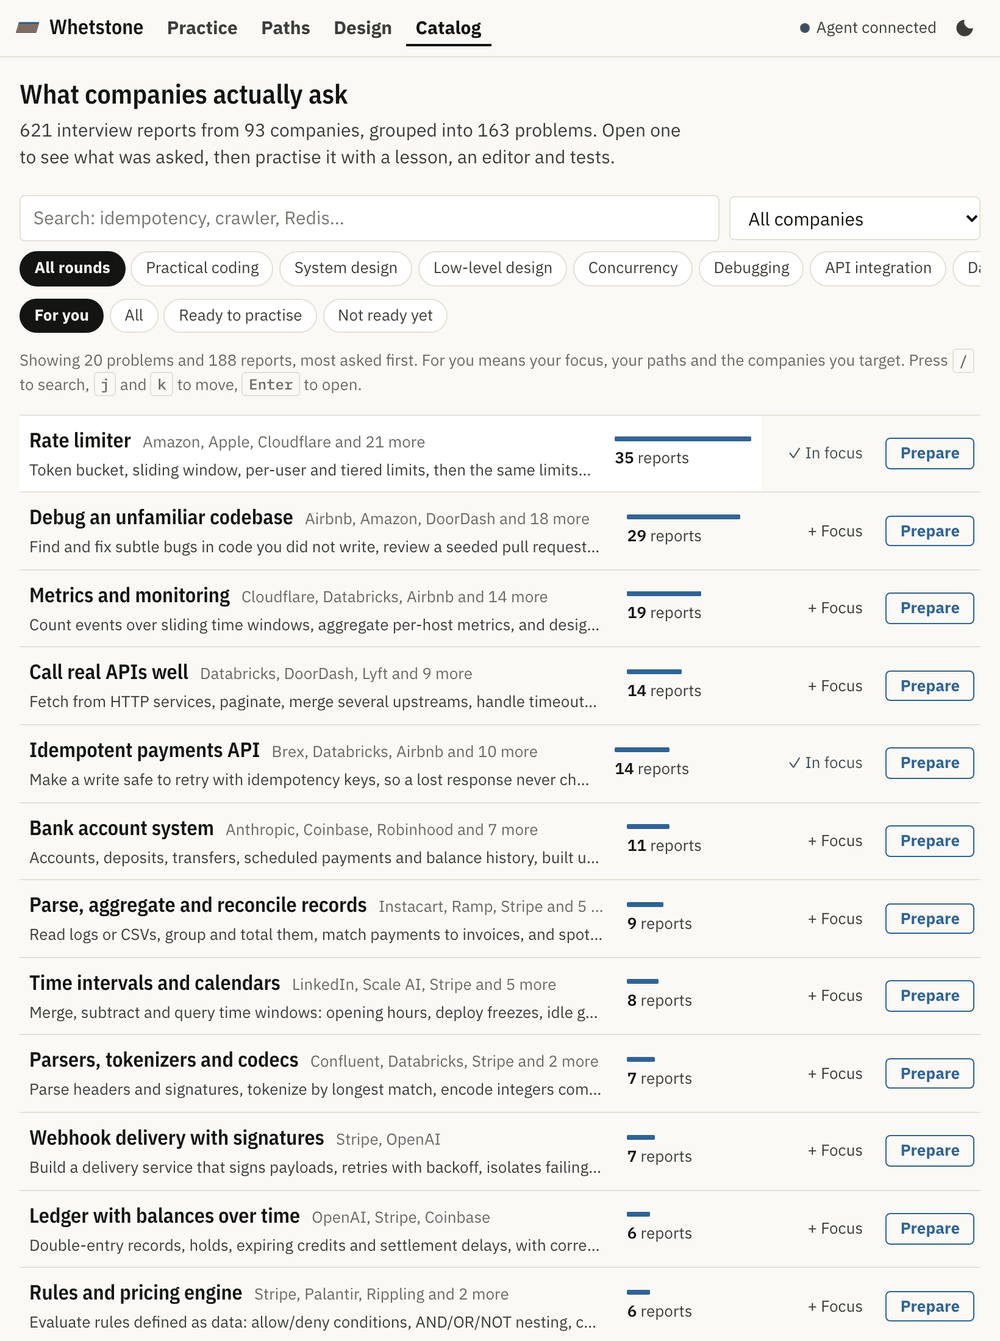
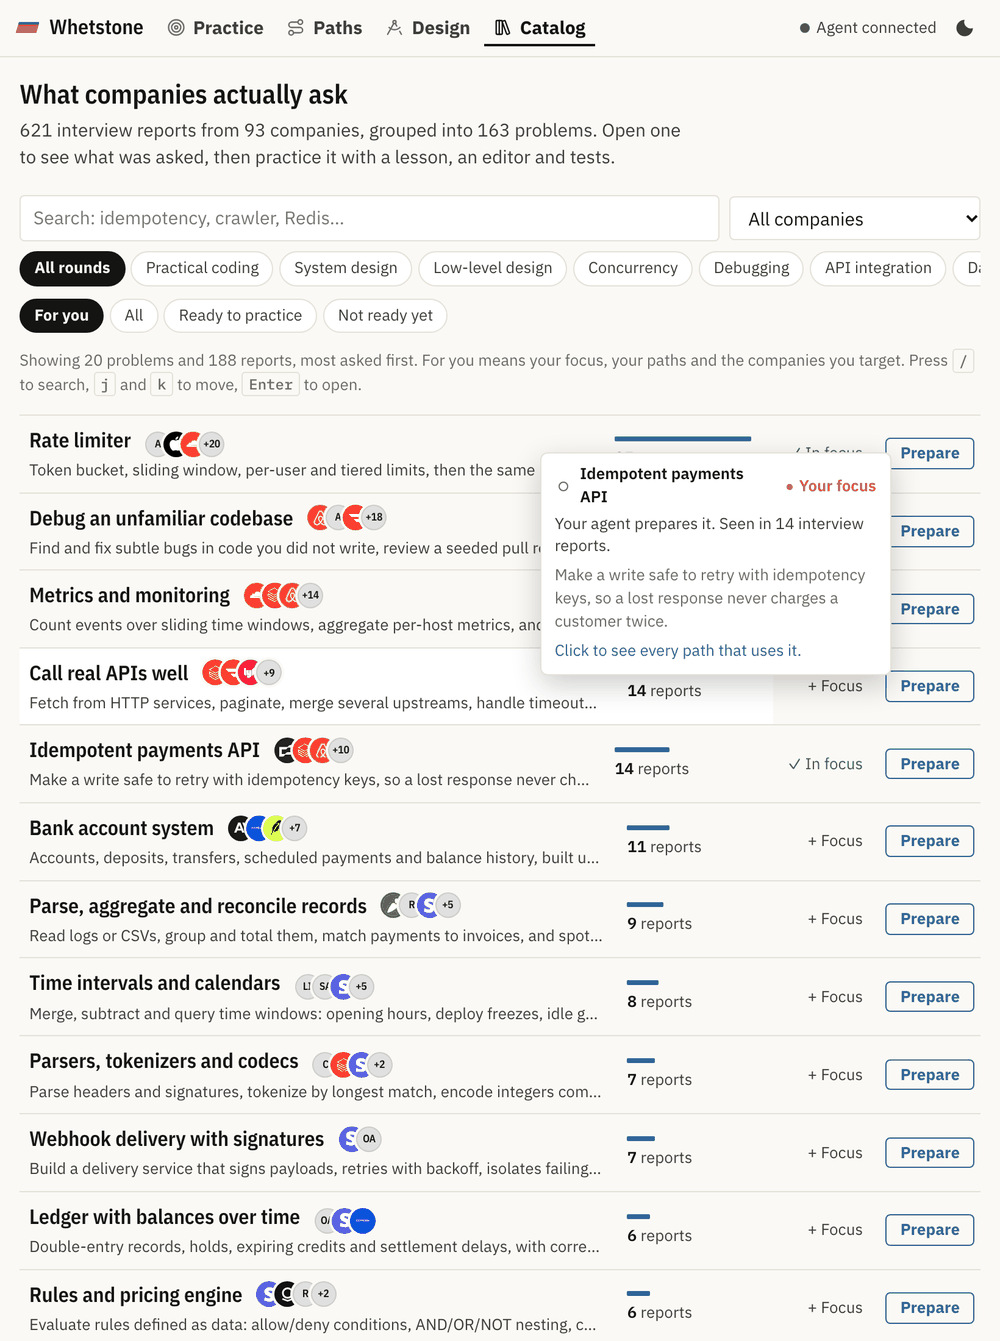
New README screenshots and demo
- Every screenshot retaken in light and dark, plus two new ones: the
  problem's sections over the code, and a stop's popover on Paths.
- "Solving a question" pairs the guess with the sections, then the note
  with the solved state; "Paths and the catalog" adds the stop popover
  beside the catalog.
- The demo GIF is re-recorded and now shows both popovers.

diff --git a/scripts/demo/record_demo.py b/scripts/demo/record_demo.py
@@ -86,6 +86,19 @@ class Session:
         await locator.click()
         await self.pause(wait)
 
+    async def hover(self, locator, wait: float = 1.4) -> None:
+        """Glide the pointer to the element and rest there, so its popover opens."""
+        await locator.scroll_into_view_if_needed()
+        box = await locator.bounding_box()
+        await self.page.evaluate(CURSOR)
+        await self.page.evaluate(
+            "([x, y]) => { document.getElementById('demo-cursor').style.transform = `translate(${x}px, ${y}px)`; }",
+            [box["x"] + box["width"] / 2 - 3, box["y"] + box["height"] / 2 - 2],
+        )
+        await self.pause(0.5)
+        await locator.hover()
+        await self.pause(wait)
+
     async def type_code(self, code: str, per_line: float = 0.09) -> None:
         lines = code.splitlines()
         for i in range(1, len(lines) + 1):
@@ -124,8 +137,11 @@ class Session:
         await self.pause(0.8)
         await self.click(start, wait=1.4)
 
-        # Read the problem, then write a first try in the editor.
+        # Read the problem, then write a first try in the editor. Its sections open over the code.
         await self.click(page.locator(".tab-code"), wait=0.6)
+        await self.hover(page.locator("#peek-row .chip").nth(0), wait=1.3)
+        await self.hover(page.locator("#peek-row .chip").nth(1), wait=1.6)
+        await self.hover(page.locator(".editor-wrap"), wait=0.3)
         await self.type_code(FIRST_TRY)
         await self.pause(0.6)
 
@@ -163,7 +179,8 @@ class Session:
             await self.click(page.locator(".explain").get_by_role("button", name="Save"), wait=1.6)
 
         # A quick look around: the paths, then system design.
-        await self.click(page.locator("#nav-paths"), wait=2.4)
+        await self.click(page.locator("#nav-paths"), wait=1.6)
+        await self.hover(page.locator("#paths-list .path-tile").first.locator("button.stop").nth(2), wait=1.8)
         await self.click(page.locator("#nav-design"), wait=2.6)
 
 

diff --git a/scripts/demo/screenshots.py b/scripts/demo/screenshots.py
@@ -183,6 +183,11 @@ async def take(base: str, store, home: Path, theme: str) -> None:
         await page.wait_for_timeout(1500)
         await page.click(".tab-code")
         await code(page, FIRST_TRY)
+        # In a side pane each section of the problem opens over the editor.
+        await page.locator("#peek-row .chip").nth(1).click()
+        await page.wait_for_timeout(400)
+        await shot(page, "question-sections", 1000)
+        await page.keyboard.press("Escape")
         await page.click("#run-btn")
         await page.wait_for_selector("#results .guess-row")
         for row in await page.locator("#results .guess-row").all():
@@ -224,6 +229,16 @@ async def take(base: str, store, home: Path, theme: str) -> None:
         await page.wait_for_timeout(700)
         await shot(page, "path-detail", 1000)
         await page.keyboard.press("Escape")
+        # Pointing at a stop shows its module.
+        await page.click("#p-clear")
+        await page.wait_for_timeout(400)
+        stop = page.locator("#paths-list .path-tile").nth(1).locator("button.stop[data-s='built'], button.stop[data-focus]").first
+        await stop.scroll_into_view_if_needed()
+        await page.wait_for_timeout(300)
+        await stop.hover()
+        await page.wait_for_selector("#stop-tip:popover-open")
+        await page.wait_for_timeout(200)
+        await shot(page, "path-stop", 1000)
 
         # Catalog and Design
         await page.goto(f"{base}/#/catalog")

diff --git a/README.md b/README.md
@@ -24,7 +24,7 @@
 </p>
 
 <p align="center">
-  <img src="docs/demo.gif" width="860" alt="Whetstone in the browser pane of an AI agent's desktop app. The learner presses Prepare, the agent builds a caching question, the learner guesses then runs the tests, a hidden test fails, the agent asks a question at line 13, the fix passes every test, and the learner explains why. Then the Paths and Design pages.">
+  <img src="docs/demo.gif" width="860" alt="Whetstone in the browser pane of an AI agent's desktop app. The learner presses Prepare, the agent builds a caching question, the learner reads the problem's sections over the code, guesses then runs the tests, a hidden test fails, the agent asks a question at line 13, the fix passes every test, and the learner explains why. Then the Paths page, where pointing at a stop shows its module, and the Design page.">
 </p>
 
 ## Why Whetstone
@@ -142,11 +142,11 @@ These are at side-pane width (820 px), the size the app is designed for. It also
 <table>
 <tr>
 <td width="50%" valign="top"><picture><source media="(prefers-color-scheme: dark)" srcset="docs/screenshots/question-guess-dark.png"><img src="docs/screenshots/question-guess.png" alt="Guess first: Before your first run, you guess which tests will pass. Predicting is how reading code sticks."></picture><br><b>Guess first.</b> Before your first run, you guess which tests will pass. Predicting is how reading code sticks.</td>
-<td width="50%" valign="top"><picture><source media="(prefers-color-scheme: dark)" srcset="docs/screenshots/question-note-dark.png"><img src="docs/screenshots/question-note.png" alt="A note from your agent: A hidden test fails. Your agent, watching, asks one question at the line that matters."></picture><br><b>A note from your agent.</b> A hidden test fails. Your agent, watching, asks one question at the line that matters.</td>
+<td width="50%" valign="top"><picture><source media="(prefers-color-scheme: dark)" srcset="docs/screenshots/question-sections-dark.png"><img src="docs/screenshots/question-sections.png" alt="The problem, beside your code: In a side pane, each section of the problem opens over the editor, so you read it without leaving your code."></picture><br><b>The problem, beside your code.</b> In a side pane, each section of the problem opens over the editor, so you read it without leaving your code.</td>
 </tr>
 <tr>
+<td width="50%" valign="top"><picture><source media="(prefers-color-scheme: dark)" srcset="docs/screenshots/question-note-dark.png"><img src="docs/screenshots/question-note.png" alt="A note from your agent: A hidden test fails. Your agent, watching, asks one question at the line that matters."></picture><br><b>A note from your agent.</b> A hidden test fails. Your agent, watching, asks one question at the line that matters.</td>
 <td width="50%" valign="top"><picture><source media="(prefers-color-scheme: dark)" srcset="docs/screenshots/question-solved-dark.png"><img src="docs/screenshots/question-solved.png" alt="Solved: Every test passes. Whetstone asks you to explain one hidden case in your own words, and a variant comes back in 3 days."></picture><br><b>Solved.</b> Every test passes. Whetstone asks you to explain one hidden case in your own words, and a variant comes back in 3 days.</td>
-<td width="50%" valign="top"><picture><source media="(prefers-color-scheme: dark)" srcset="docs/screenshots/catalog-dark.png"><img src="docs/screenshots/catalog.png" alt="Catalog: Every problem companies ask, with the reports behind it, most asked first."></picture><br><b>Catalog.</b> Every problem companies ask, with the reports behind it, most asked first.</td>
 </tr>
 </table>
 
@@ -154,12 +154,16 @@ These are at side-pane width (820 px), the size the app is designed for. It also
 
 <p align="center"><sub>The same question at full screen: the module's questions, the problem, and the editor with test results.</sub></p>
 
-### Learning paths
+### Paths and the catalog
 
 <table>
 <tr>
 <td width="50%" valign="top"><picture><source media="(prefers-color-scheme: dark)" srcset="docs/screenshots/paths-dark.png"><img src="docs/screenshots/paths.png" alt="Paths: 78 systems to build. Filter by what suits you, what is ready now, a domain or a company. Pick a stop to see every path that uses that module."></picture><br><b>Paths.</b> 78 systems to build. Filter by what suits you, what is ready now, a domain or a company. Pick a stop to see every path that uses that module.</td>
-<td width="50%" valign="top"><picture><source media="(prefers-color-scheme: dark)" srcset="docs/screenshots/path-detail-dark.png"><img src="docs/screenshots/path-detail.png" alt="One path: The modules in order, with your focus marked. Prepare builds a missing module; one button builds them all."></picture><br><b>One path.</b> The modules in order, with your focus marked. Prepare builds a missing module; one button builds them all.</td>
+<td width="50%" valign="top"><picture><source media="(prefers-color-scheme: dark)" srcset="docs/screenshots/path-detail-dark.png"><img src="docs/screenshots/path-detail.png" alt="One path: The modules in order, with the companies it is modelled on and your focus marked. Prepare all queues them in order, so you start the first while your agent prepares the rest."></picture><br><b>One path.</b> The modules in order, with the companies it is modelled on and your focus marked. Prepare all queues them in order, so you start the first while your agent prepares the rest.</td>
+</tr>
+<tr>
+<td width="50%" valign="top"><picture><source media="(prefers-color-scheme: dark)" srcset="docs/screenshots/path-stop-dark.png"><img src="docs/screenshots/path-stop.png" alt="Every stop: Point at a stop to see the module, where you are with it, and what it covers."></picture><br><b>Every stop.</b> Point at a stop to see the module, where you are with it, and what it covers.</td>
+<td width="50%" valign="top"><picture><source media="(prefers-color-scheme: dark)" srcset="docs/screenshots/catalog-dark.png"><img src="docs/screenshots/catalog.png" alt="Catalog: Every problem companies ask, with the reports behind it, most asked first."></picture><br><b>Catalog.</b> Every problem companies ask, with the reports behind it, most asked first.</td>
 </tr>
 </table>
 
